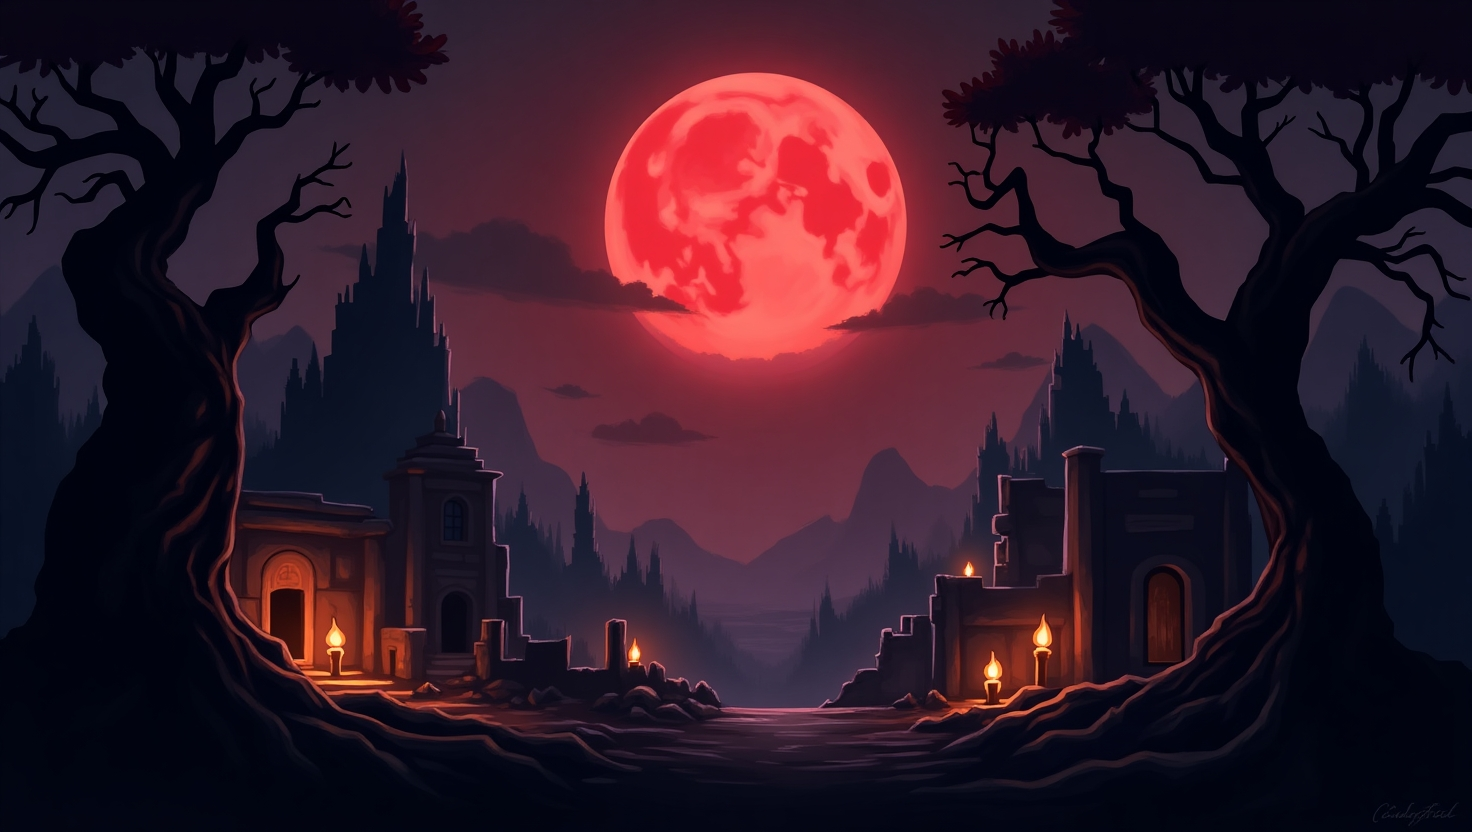
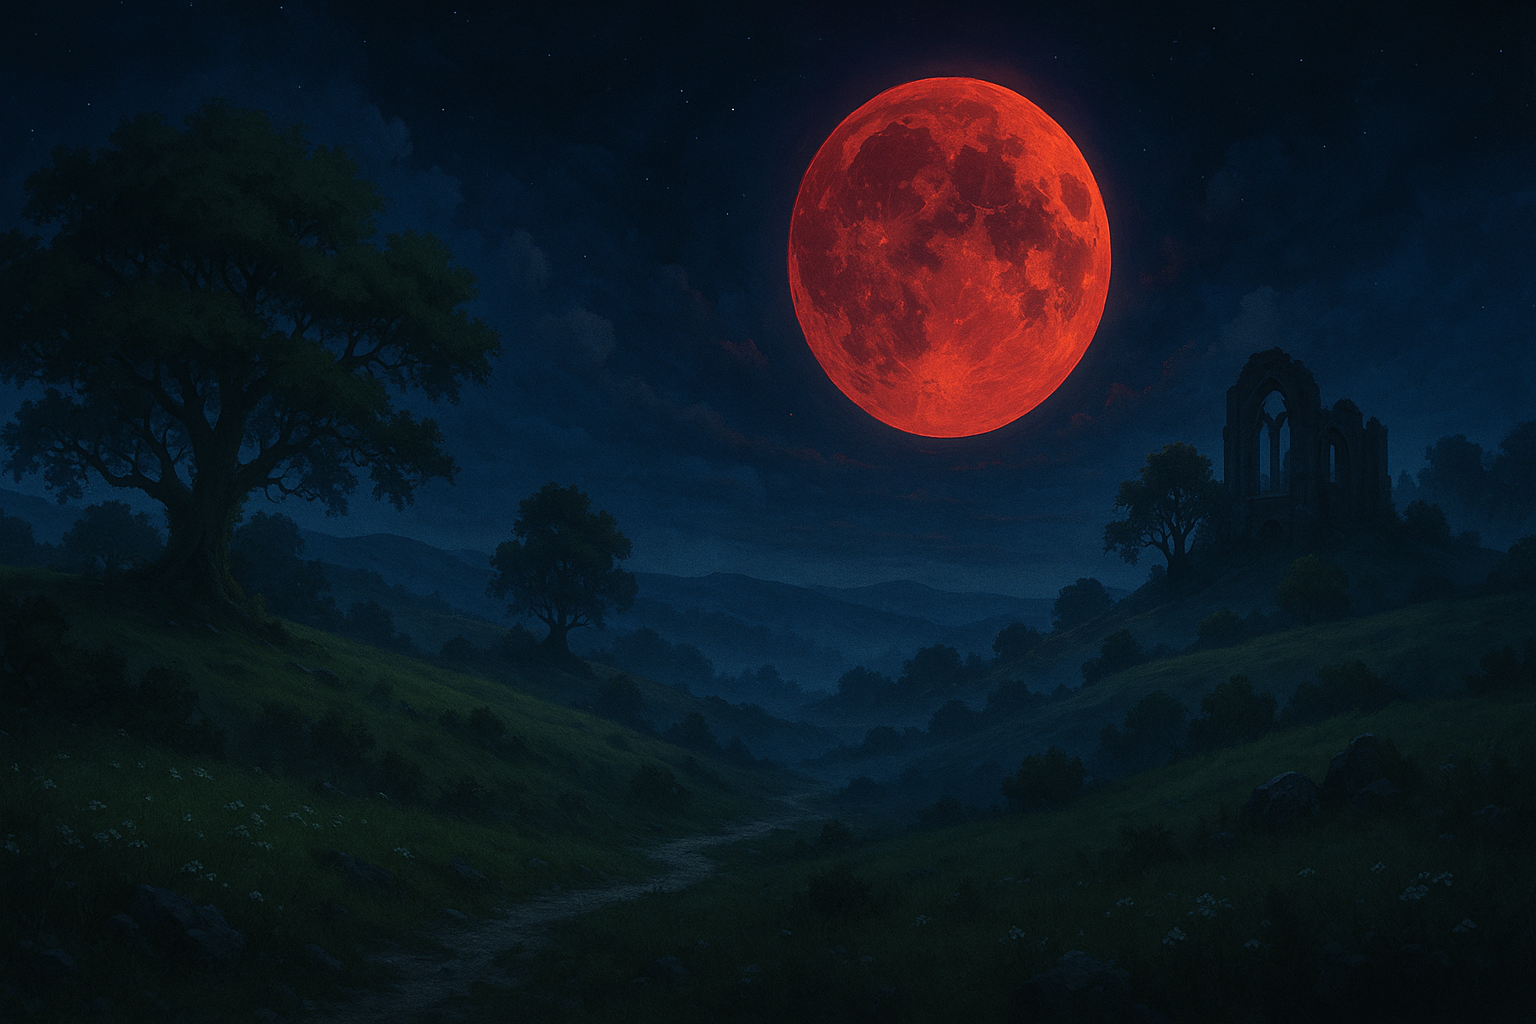
Nouvelle map - background pas fou à modifier

diff --git a/Lunaria/src/main/java/universite_paris8/iut/epereira/lunaria/modele/Terrain.java b/Lunaria/src/main/java/universite_paris8/iut/epereira/lunaria/modele/Terrain.java
@@ -4,13 +4,15 @@ package universite_paris8.iut.epereira.lunaria.modele;
 import javafx.collections.FXCollections;
 import javafx.collections.ObservableList;
 
+import static universite_paris8.iut.epereira.lunaria.modele.Acteur.random;
+
 public class Terrain {
     private int width;
     private int height;
     private ObservableList<Integer> tableau;
     private boolean[][] tangibilite;
 
-    private static final int[] TUILES_NON_TANGIBLES = {0,3,5};
+    private static final int[] TUILES_NON_TANGIBLES = {0, 3, 5,7};
 
     /*
     formules:
@@ -27,38 +29,44 @@ public class Terrain {
         this.width = width;
         this.height = height;
         tableau = FXCollections.observableArrayList();
-        initTableau(ConfigurationJeu.WIDTH_TILES,ConfigurationJeu.HEIGHT_TILES);
+        initTableau(ConfigurationJeu.WIDTH_TILES, ConfigurationJeu.HEIGHT_TILES);
 
         initTangibilite();
     }
-
-
-
-
     public void initTableau(int width, int height) {
         this.width = width;
         this.height = height;
-        //this.tableau = new int [height][width];
 
-//        for (int y = 0; y < height*width; y++) {
-//            //tableau[y][x] = 0;
-//            tableau.add(0);
-//        }
+        tableau.clear();
 
-
-        int profondeurTerre = 15;
+        int profondeurTerre = 6;
         int hauteurHerbe = 1;
-        int profondeurPierre=6;
-        int profondeurCiel=ConfigurationJeu.HEIGHT_TILES-profondeurTerre-hauteurHerbe-profondeurPierre;
+        int profondeurPierre = 13;
+        int profondeurCiel = ConfigurationJeu.HEIGHT_TILES - profondeurTerre - hauteurHerbe - profondeurPierre;
 
+        // CRÉER UN LÉGER RELIEF
+        int[] hauteurSol = new int[width];
+        int niveauSolBase = profondeurCiel + hauteurHerbe;
+
+        // Générer un léger relief naturel (max +/- 4 blocs)
+        for (int x = 0; x < width; x++) {
+            double ondulation = 2 * Math.sin(x * 0.05) + 1 * Math.sin(x * 0.1);
+            hauteurSol[x] = niveauSolBase + (int)ondulation;
+
+            // Garder dans des limites raisonnables
+            hauteurSol[x] = Math.max(niveauSolBase - 3, Math.min(niveauSolBase + 3, hauteurSol[x]));
+        }
+
+        // GÉNÉRATION DU TERRAIN DE BASE
         for (int y = 0; y < height; y++) {
             for (int x = 0; x < width; x++) {
+                int niveauSol = hauteurSol[x];
 
-                if (y < profondeurCiel) {
-                    tableau.add(0);// ciel
-                } else if (y < profondeurCiel + hauteurHerbe) {
+                if (y < niveauSol) {
+                    tableau.add(0); // ciel
+                } else if (y == niveauSol) {
                     tableau.add(2); // herbe
-                } else if (y < profondeurCiel + hauteurHerbe + profondeurTerre) {
+                } else if (y < niveauSol + profondeurTerre) {
                     tableau.add(1); // terre
                 } else {
                     tableau.add(4); // pierre
@@ -66,41 +74,128 @@ public class Terrain {
             }
         }
 
+        // Quelques poches de pierre dans la terre
+        for (int i = 0; i < 5; i++) {
+            int x = 3 + (int)(Math.random() * (width - 6));
+            int y = niveauSolBase + 3 + (int)(Math.random() * 6);
+            creerPochePierreSimple(x, y);
+        }
 
 
-        for (int x = 0; x < width; x += 5) { // TOUS LES 5 BLOCS
-            if (Math.random() < 0.5) { // 50% de chance d'avoir un buisson
-                tableau.set(getPos(x,height-hauteurHerbe-profondeurTerre-profondeurPierre - 1),3); //3 = BUISSON
+        // Forêt principale - 8 arbres bien espacés
+        for (int i = 0; i < 8; i++) {
+            int x = 8 + i * (width / 9);
+            if (x >= 2 && x < width - 2) {
+                int surfaceY = hauteurSol[x] - 1;
+                if (estPositionLibre(x, surfaceY, 1)) {
+                    int hauteurArbre = 6 + (int)(Math.random() * 3); // 6-8 blocs
+                    creerArbre(x, surfaceY, hauteurArbre);
+                }
             }
         }
-        creerArbre(20,27);
 
+        // Quelques arbres supplémentaires
+        for (int i = 0; i < 4; i++) {
+            int x = 5 + (int)(Math.random() * (width - 10));
+            int surfaceY = hauteurSol[x] - 1;
+            if (estPositionLibre(x, surfaceY, 3)) {
+                int hauteurArbre = 5 + (int)(Math.random() * 3);
+                creerArbre(x, surfaceY, hauteurArbre);
+            }
+        }
+
+        // BUISSONS
+        for (int x = 0; x < width; x += 4) {
+            int surfaceY = hauteurSol[x] - 1;
+            if (Math.random() < 0.3 && estPositionLibre(x, surfaceY, 1)) {
+                tableau.set(getPos(x, surfaceY), 3); // buisson
+            }
+        }
+
+
+        // Quelques branches tombées
+        for (int i = 0; i < 3; i++) {
+            int x = (int)(Math.random() * width);
+            int surfaceY = hauteurSol[x] - 1;
+            if (x >= 0 && x < width && tableau.get(getPos(x, surfaceY)) == 0) {
+                tableau.set(getPos(x, surfaceY), 5); // bois
+            }
+        }
 
         initTangibilite();
     }
 
-    public int tabY(int pos){
-        return (int)Math.floor(pos/ConfigurationJeu.WIDTH_TILES);
-    }
-    public int tabX(int pos){
-        return (int)pos%ConfigurationJeu.WIDTH_TILES;
+
+    private void creerPochePierreSimple(int centreX, int centreY) {
+        if (centreX < 1 || centreX >= width-1 || centreY < 1 || centreY >= height-1) {
+            return;
+        }
+
+        // Petite poche 3x3
+        for (int dy = -1; dy <= 1; dy++) {
+            for (int dx = -1; dx <= 1; dx++) {
+                int x = centreX + dx;
+                int y = centreY + dy;
+
+                if (x >= 0 && x < width && y >= 0 && y < height && Math.random() < 0.7) {
+                    tableau.set(getPos(x, y), 4); // pierre
+                }
+            }
+        }
     }
 
-    public int getPos(int x, int y){
-        return (int) y*width+x;
+    private boolean estPositionLibre(int x, int y, int largeur) {
+        if (x < 0 || y < 0 || x + largeur > width || y >= height) {
+            return false;
+        }
+
+        for (int i = 0; i < largeur; i++) {
+            if (tableau.get(getPos(x + i, y)) != 0) {
+                return false;
+            }
+        }
+        return true;
     }
 
-  public void creerArbre(int x,int y) {
-      tableau.set((getPos(x,y)),5);
-      tableau.set((getPos(x,y-1)),5);
-      tableau.set((getPos(x,y-2)),5);
-      tableau.set((getPos(x,y-3)),5);
-      tableau.set((getPos(x,y-4)),5);
-      tableau.set((getPos(x,y-5)),5);
-      tableau.set((getPos(x,y-6)),5);
-      tableau.set((getPos(x,y-7)),5);
+    private void creerArbre(int x, int y, int hauteur) {
+        if (x < 0 || x >= width || y < 0 || y >= height) {
+            return;
+        }
 
-  }
+        // Tronc
+        for (int i = 0; i < hauteur; i++) {
+            int posY = y - i;
+            if (posY >= 0 && posY < height) {
+                tableau.set(getPos(x, posY), 5); // bois
+            }
+        }
+
+        // Feuillage simple
+        int topY = y - hauteur;
+        if (topY >= 0 && topY < height) {
+            // Sommet
+            tableau.set(getPos(x, topY), 7);
+            if (x > 0) tableau.set(getPos(x - 1, topY), 7);
+            if (x < width - 1) tableau.set(getPos(x + 1, topY), 7);
+
+            // Couche du milieu
+            if (topY + 1 < height) {
+                if (x > 0) tableau.set(getPos(x - 1, topY + 1), 7);
+                if (x < width - 1) tableau.set(getPos(x + 1, topY + 1), 7);
+                if (x > 1) tableau.set(getPos(x - 2, topY + 1), 7);
+                if (x < width - 2) tableau.set(getPos(x + 2, topY + 1), 7);
+            }
+        }
+    }
+
+
+    public int getPos(int x, int y) {
+        if (x < 0 || x >= width || y < 0 || y >= height) {
+            return 0;
+        }
+        return y * width + x;
+    }
+
 
     private void initTangibilite() {
         this.tangibilite = new boolean[height][width];

diff --git a/Lunaria/src/main/java/universite_paris8/iut/epereira/lunaria/controleur/GestionBoucle.java b/Lunaria/src/main/java/universite_paris8/iut/epereira/lunaria/controleur/GestionBoucle.java
@@ -9,7 +9,7 @@ import universite_paris8.iut.epereira.lunaria.modele.Environement;
 import universite_paris8.iut.epereira.lunaria.modele.acteurs.Ennemis.Ennemi;
 import universite_paris8.iut.epereira.lunaria.vue.VueActeur;
 import universite_paris8.iut.epereira.lunaria.vue.VueActeurFactory;
-import universite_paris8.iut.epereira.lunaria.vue.VueEnnemi;
+import universite_paris8.iut.epereira.lunaria.vue.VueAdepte;
 
 import java.util.ArrayList;
 import java.util.List;
@@ -58,8 +58,7 @@ public class GestionBoucle {
         int i = 0;
         while (i < env.getActeurs().size()) {
             Acteur a = env.getActeurs().get(i);
-        List<Acteur> acteursCopie = new ArrayList<>(env.getActeurs()); // A modifier utiliser une boucle while a la place et observable list
-        for (Acteur a : acteursCopie) {
+            List<Acteur> acteursCopie = new ArrayList<>(env.getActeurs());
             double oldX = a.getPosX();
             a.deplacement();
             double deltaX = a.getPosX() - oldX;
@@ -78,7 +77,7 @@ public class GestionBoucle {
         controleur.getBarreDeVieHero().mettreAJour(env.getHero().getPv(),env.getHero().getFaim());
 
 
-        controleur.getBarreDeVieHero().mettreAJour(env.getHero().getPv());
+        controleur.getBarreDeVieHero().mettreAJour(env.getHero().getPv(),env.getHero().getFaim());
         compteurFrames++;
         if (compteurFrames >= FRAMES_POUR_60_SECONDES) {
             this.env.changerEtatJour();

diff --git a/Lunaria/src/main/java/universite_paris8/iut/epereira/lunaria/vue/ObsTerrain.java b/Lunaria/src/main/java/universite_paris8/iut/epereira/lunaria/vue/ObsTerrain.java
@@ -18,6 +18,7 @@ public class ObsTerrain implements ListChangeListener<Integer> {
     private final Image imagePierre = new Image(getClass().getResourceAsStream("/universite_paris8/iut/epereira/lunaria/DossierMap/MurEnPierre.png"));
     private final Image imageBois = new Image(getClass().getResourceAsStream("/universite_paris8/iut/epereira/lunaria/DossierMap/Buche.png"));
     private final Image imagePlanche = new Image(getClass().getResourceAsStream("/universite_paris8/iut/epereira/lunaria/DossierMap/Planche.png"));
+    private final Image imageFeuille = new Image(getClass().getResourceAsStream("/universite_paris8/iut/epereira/lunaria/DossierMap/Feuille.png"));
     private final int width;
 
     public ObsTerrain(GridPane grilleAffichage, int width) {
@@ -58,6 +59,9 @@ public class ObsTerrain implements ListChangeListener<Integer> {
                 break;
             case 6:
                 sprite = imagePlanche;
+                break;
+            case 7:
+                sprite = imageFeuille;
                 break;
             default:
                 sprite = imageVide;
